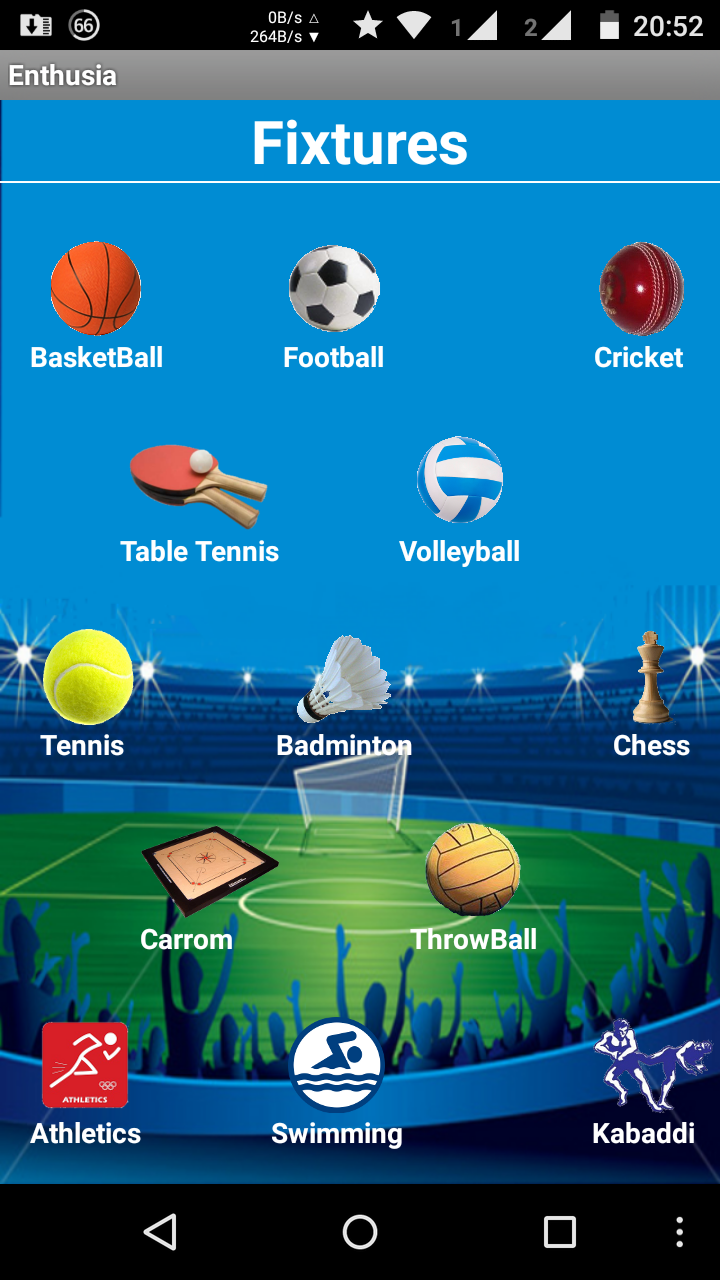
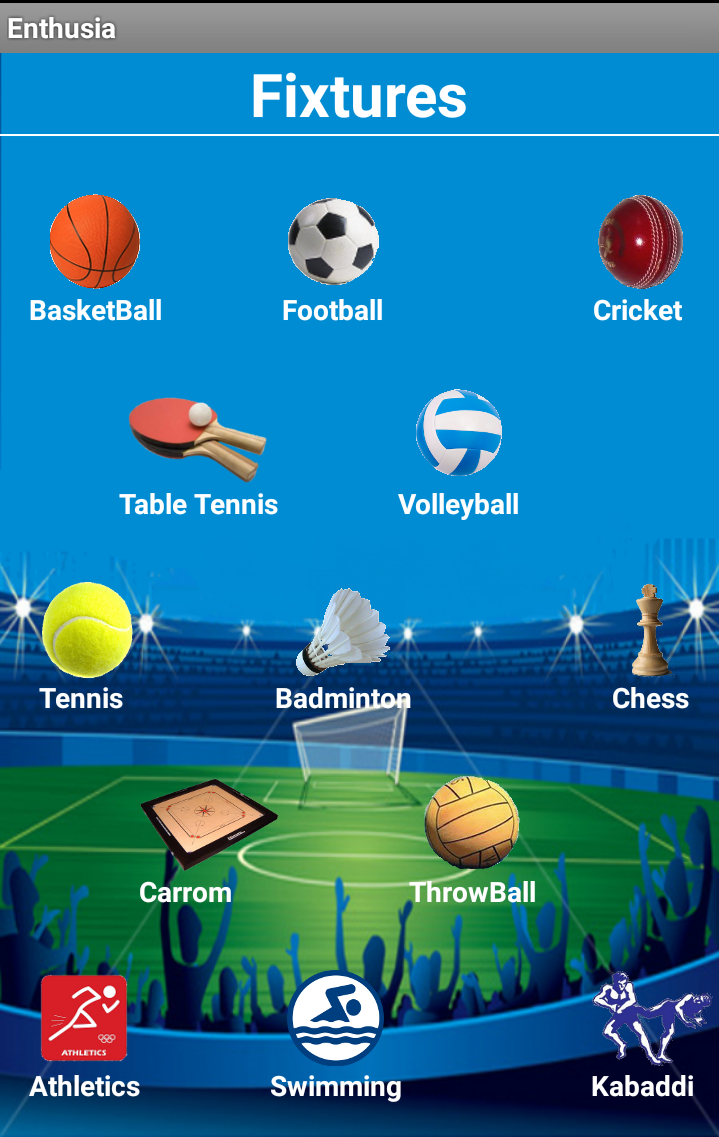
version 1.5

diff --git a/index.html b/index.html
@@ -175,14 +175,14 @@
     <div class="col s6 center">
       <div class="card col s12 portcard">
     <div class="card-image waves-effect waves-block waves-light">
-      <img class="activator portimg" src="files/enthu_dash.png">
+      <img class="activator portimg" src="files/enthu_info.png">
     </div>
     <div class="card-content">
       <span class="card-title activator grey-text text-darken-4">Enthusia<i class="material-icons small right">info_outline</i></span>
       <p>Click on title for more info</p>
     </div>
     <div class="card-reveal">
-      <span class="card-title grey-text text-darken-4">Card Title<i class="material-icons right">close</i></span>
+      <span class="card-title grey-text text-darken-4">Enthusia<i class="material-icons right">close</i></span>
       <p>
         <br><img src="files/enthu_dash.png" class="portimg">
         <br><img src="files/enthu_detail.png" class="portimg">
@@ -223,7 +223,7 @@
       <p>Click on title for more info</p>
     </div>
     <div class="card-reveal">
-      <span class="card-title grey-text text-darken-4">Card Title<i class="material-icons right">close</i></span>
+      <span class="card-title grey-text text-darken-4">Sharaddanand Mahilashram<i class="material-icons right">close</i></span>
       <p>
         <br><img src="files/shma1.jpg" class="portimg">
         <br><img src="files/shma2.jpg" class="portimg">

diff --git a/portfolio.css b/portfolio.css
@@ -74,8 +74,8 @@ body{
 }
 
 .portimg{
-  width:100%;
-  height:80%;
+  width:500px;
+  height:700px;
 }
 
 .portcard{
